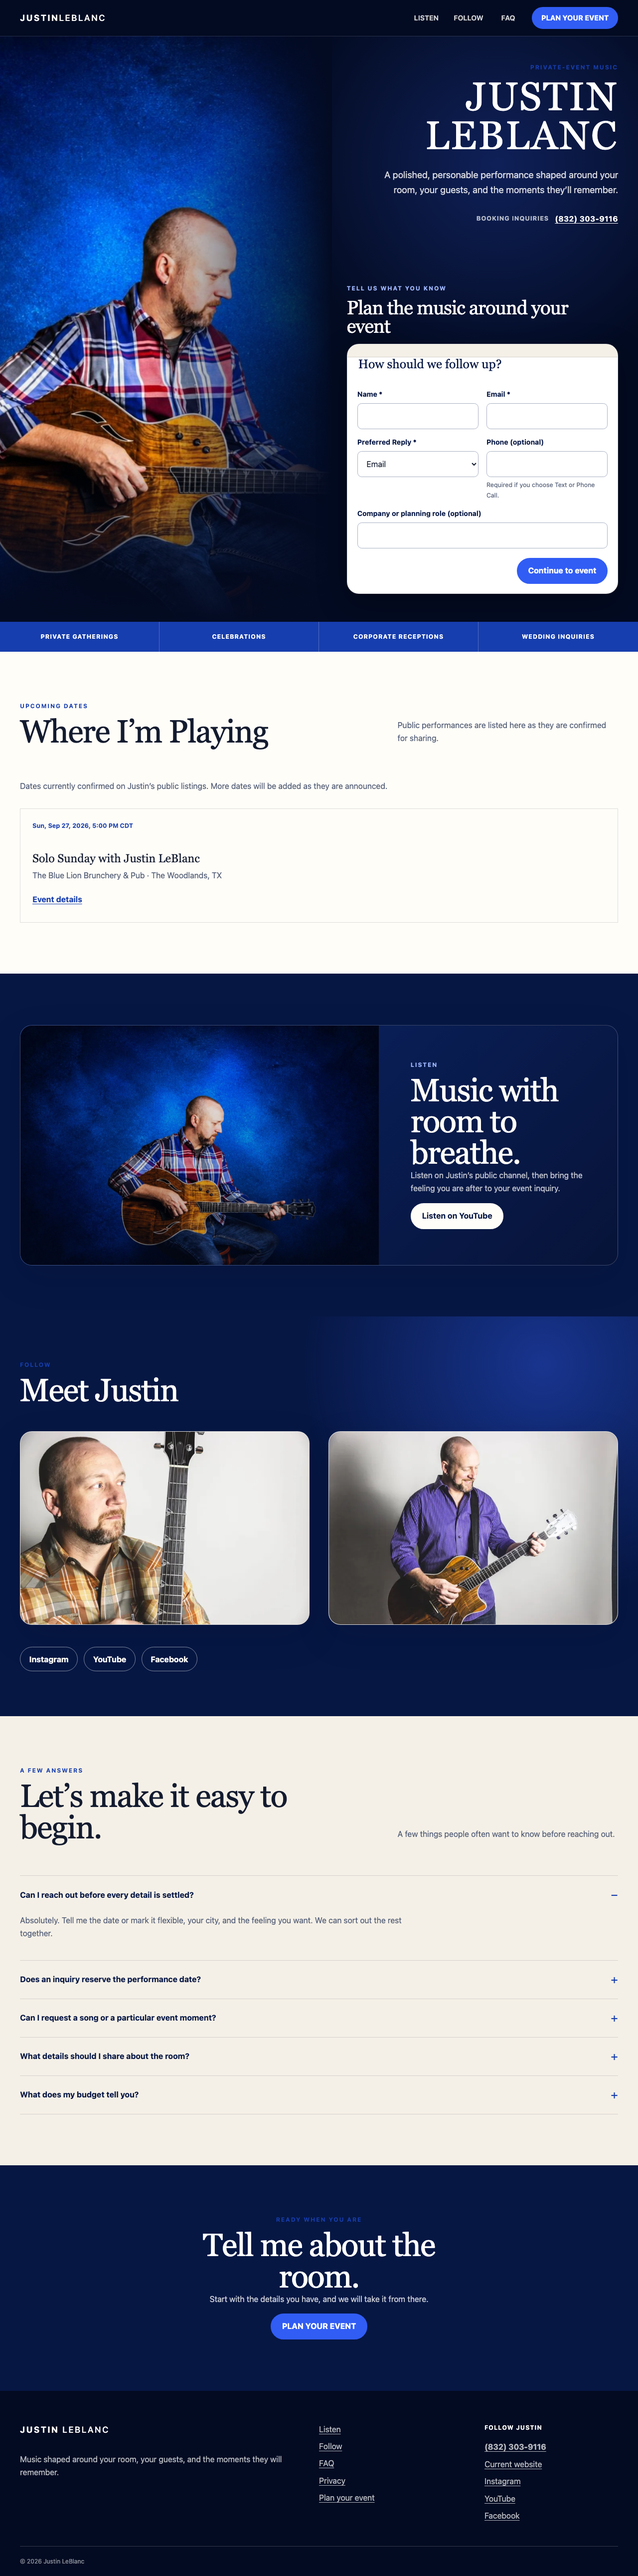
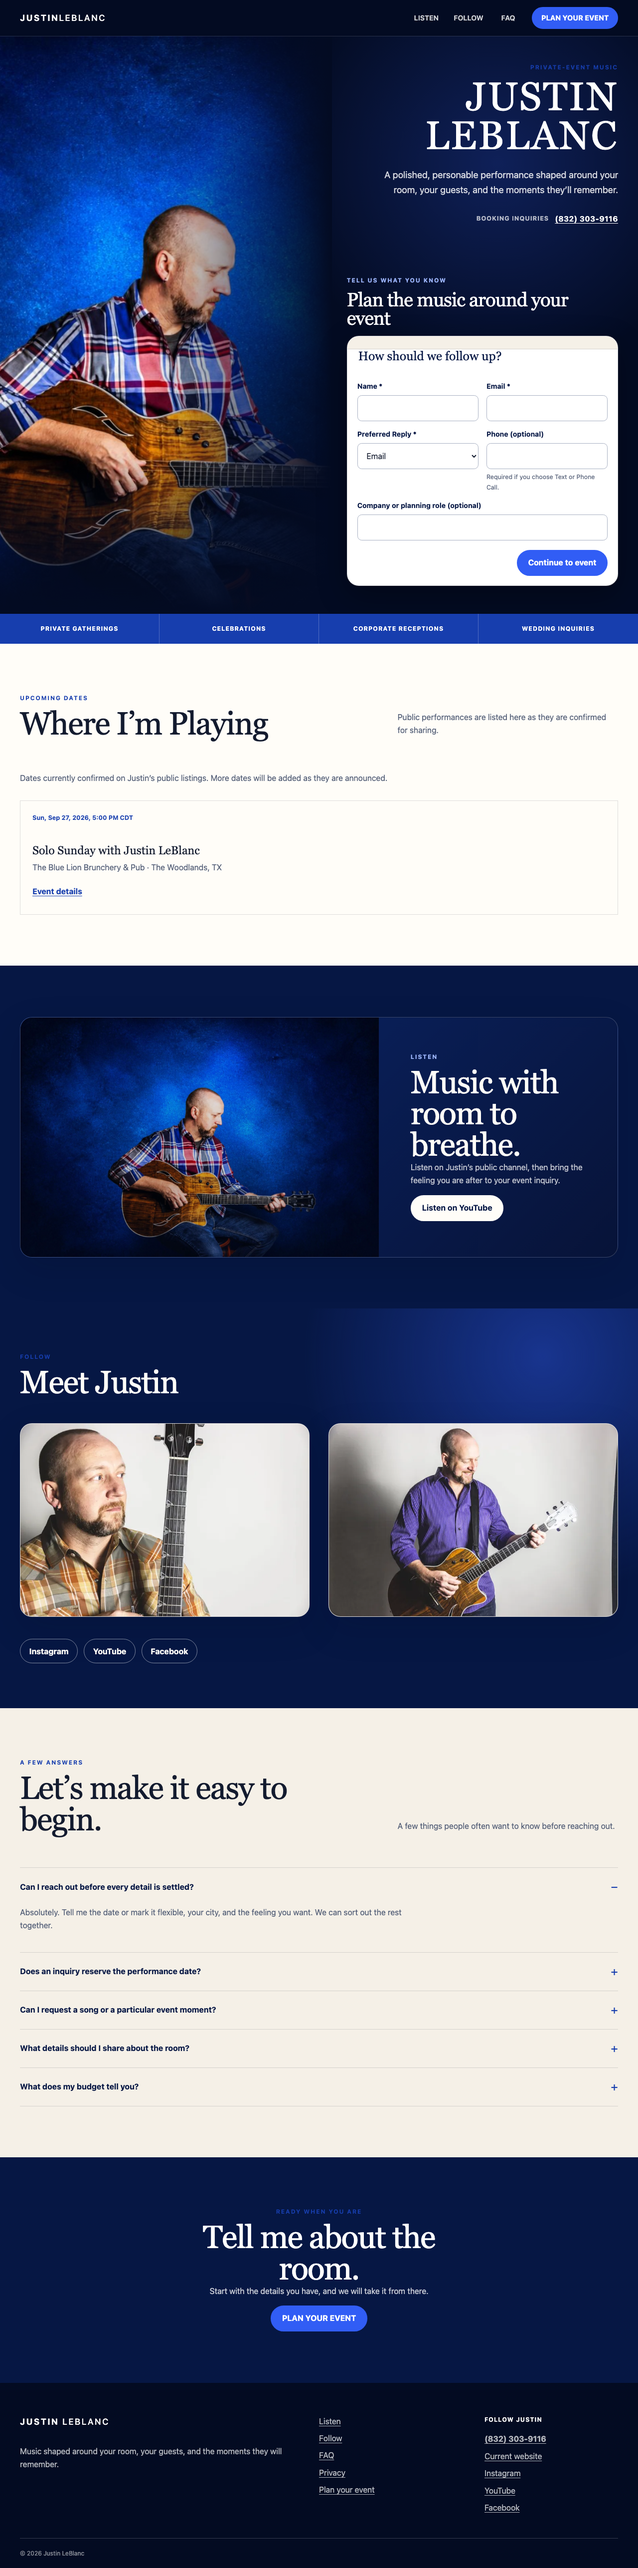
Keep opening planner controls inside desktop viewport
- tighten the hero copy-to-planner spacing by one rem\n- assert full name and email control bounds at the required 1440x900 viewport\n- refresh the affected desktop acceptance screenshots

diff --git a/tests/e2e/round-two.spec.ts b/tests/e2e/round-two.spec.ts
@@ -237,6 +237,15 @@ test.describe('round-two homepage conversion surface', () => {
       await expect(page.locator('#planner-title')).toBeInViewport();
       await expect(page.locator('#name')).toBeInViewport();
       if (width === 1440) await expect(page.locator('#email')).toBeInViewport();
+      const requiredControls = width === 1440 ? ['#name', '#email'] : ['#name'];
+      const viewportHeight = width === 1440 ? 900 : 844;
+      for (const selector of requiredControls) {
+        const bounds = await page.locator(selector).boundingBox();
+        expect(bounds).not.toBeNull();
+        if (bounds === null) continue;
+        expect(bounds.y).toBeGreaterThanOrEqual(0);
+        expect(bounds.y + bounds.height).toBeLessThanOrEqual(viewportHeight);
+      }
     }
 
     const overflow = await page.evaluate(

diff --git a/apps/web/src/styles/global.css b/apps/web/src/styles/global.css
@@ -1419,7 +1419,7 @@ input:disabled {
   grid-column: 2;
   grid-row: 1;
   align-self: end;
-  margin-bottom: 2rem;
+  margin-bottom: 1rem;
   text-align: right;
 }
 
